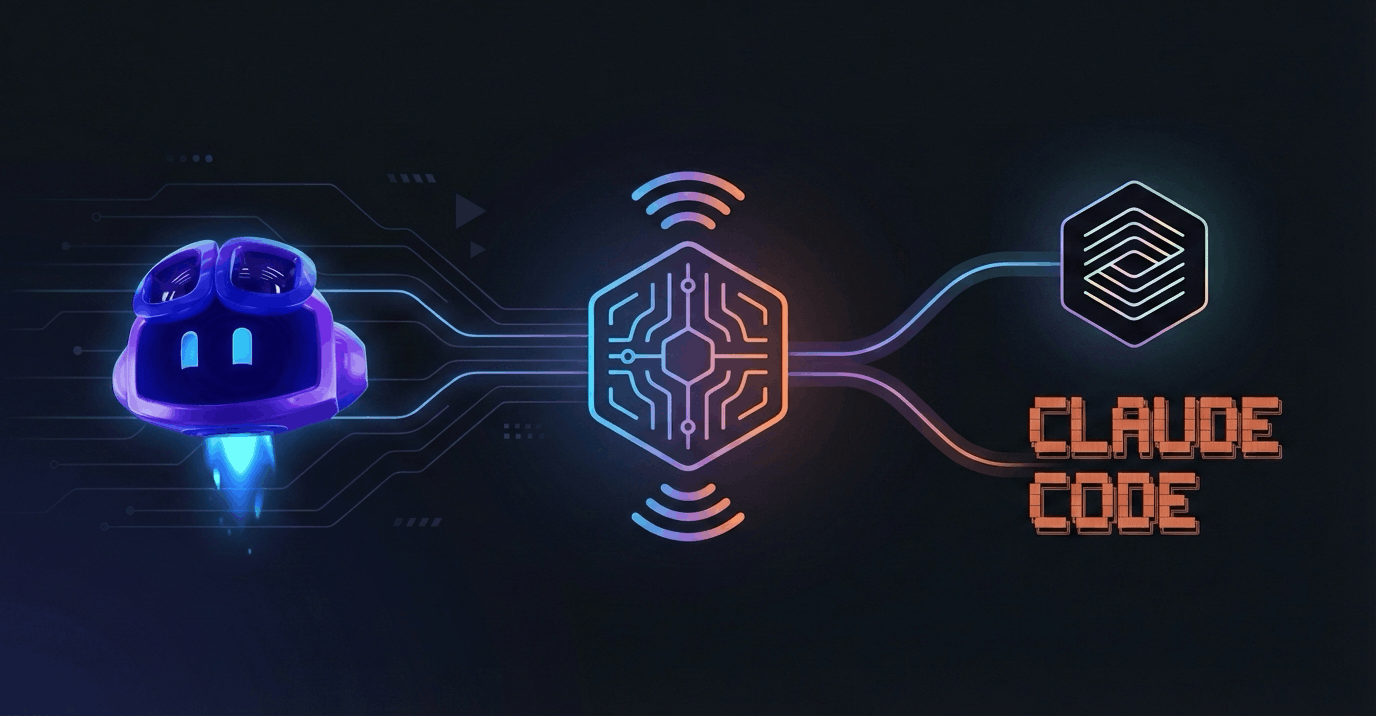
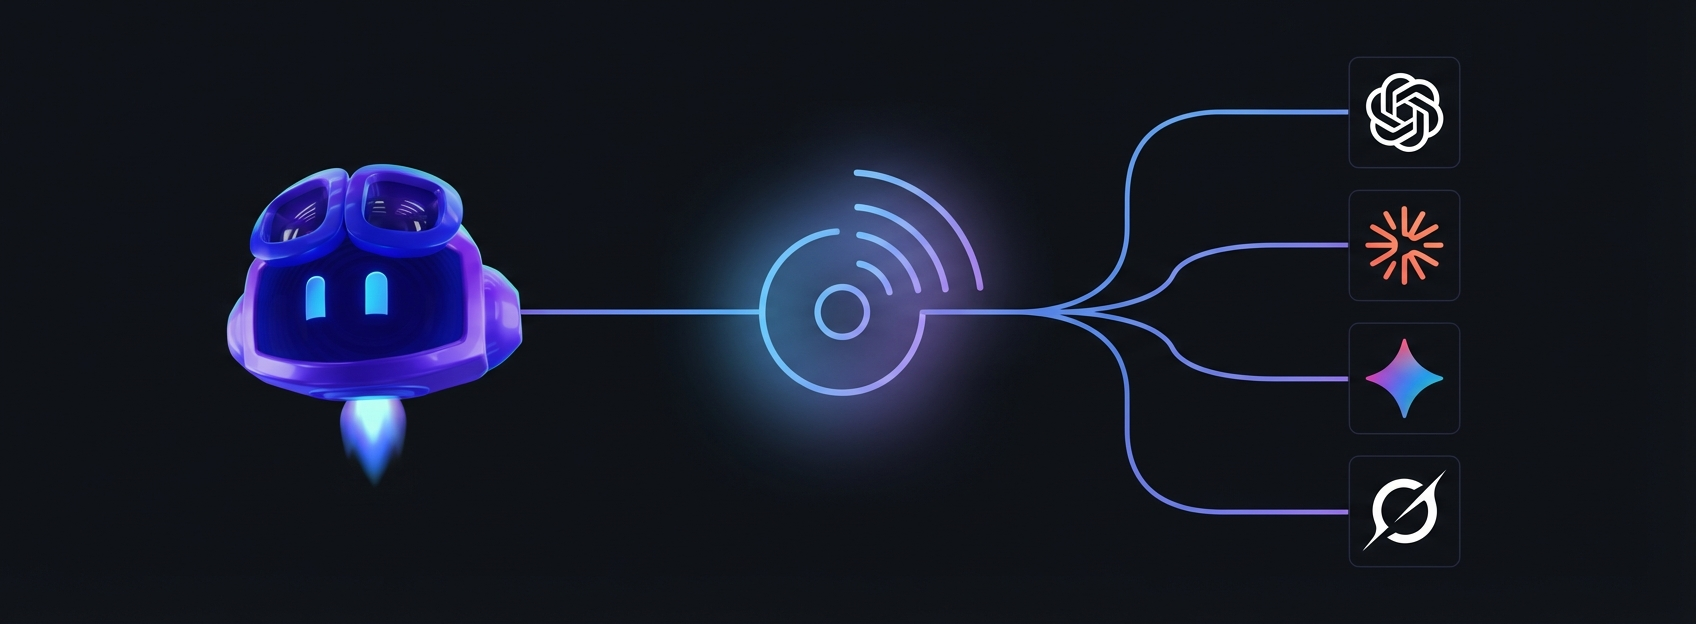
docs: clarify scope and improve documentation

Changed region(s): [[0.0, 0.0913, 0.9375, 1.0], [0.3125, 0.274, 0.3438, 0.3045], [0.2812, 0.2436, 0.3125, 0.274]]

diff --git a/README.md b/README.md
@@ -14,10 +14,33 @@
 </p>
 
 <p align="center">
-  Run <strong>Claude Code</strong> and <strong>OpenAI Codex</strong> with your Copilot subscription.
+  OpenAI & Anthropic compatible chat proxy for GitHub Copilot models.
 </p>
 
-One command. No extra API keys. Just your existing GitHub Copilot plan.
+Use your existing GitHub Copilot subscription with standard OpenAI and Anthropic client libraries.
+
+> [!WARNING]
+> **This is a chat completion proxy, not a full API replacement.**
+>
+> - **Tool/function calling is NOT passed through** - client tool definitions are ignored
+> - **Copilot has its own tools** - file operations happen on the **router's machine/directory**, not the client's
+> - **Claude Code/Codex tools don't work** - their file/shell tools never get invoked; Copilot's tools run instead
+> - **Best for:** Chat applications, simple completions, Q&A bots, prototyping
+> - **Not for:** Agentic coding assistants expecting client-side tool execution
+
+## What This Does
+
+This router translates OpenAI and Anthropic API formats to GitHub Copilot SDK calls, allowing you to:
+
+- Use `openai` and `anthropic` Python/JS libraries with Copilot models
+- Access Claude, GPT, and Gemini models through your Copilot subscription
+- Build chat applications without managing multiple API keys
+
+## What This Does NOT Do
+
+- Pass through tool/function calls to clients (Copilot executes tools server-side instead)
+- Let Claude Code/Codex control file operations (Copilot's tools run in the router's directory)
+- Replace direct API access for agentic tools that need client-side tool execution
 
 ## Quick Start
 
@@ -47,168 +70,18 @@ One command. No extra API keys. Just your existing GitHub Copilot plan.
 
     ```bash
     npm install -g github-copilot-router
+    gcr     # Start the router server
 
+    # Experimental
     gcr cc  # Launch Claude Code
     gcr cx  # Launch OpenAI Codex
-    gcr     # Start the router server only
     ```
 
     The server will start at `http://localhost:7318`.
 
 > **Tip:** You can also authenticate via `GITHUB_TOKEN` environment variable with a [PAT](https://github.com/settings/personal-access-tokens/new) that has "Copilot Requests" permission.
 
-## Claude Code Integration
-
-[Claude Code](https://github.com/anthropics/claude-code) can be configured to use this router as its backend, allowing you to use GitHub Copilot models through Claude Code's interface.
-
-### Quick Launch (Recommended)
-
-The easiest way to use Claude Code with the router - no configuration needed:
-
-```bash
-gcr cc
-# or: gcr claude-code
-```
-
-This starts the router, launches Claude Code with the correct environment variables, and cleans up when you exit. All arguments are passed through:
-
-```bash
-gcr cc --resume
-gcr cc --dangerously-skip-permissions
-```
-
-### Manual Setup
-
-If you prefer to run the router separately:
-
-1. **Start the router** (keep it running in a terminal):
-   ```bash
-   gcr
-   ```
-
-2. **Configure Claude Code** by creating/editing `.claude/settings.json` in your project:
-
-   ```json
-   {
-    "env": {
-      "ANTHROPIC_BASE_URL": "http://localhost:7318",
-      "ANTHROPIC_AUTH_TOKEN": "not-required",
-      "ANTHROPIC_API_KEY": "",
-      "ANTHROPIC_DEFAULT_HAIKU_MODEL": "github-copilot/claude-haiku-4.5",
-      "ANTHROPIC_DEFAULT_SONNET_MODEL": "github-copilot/claude-sonnet-4.5",
-      "ANTHROPIC_DEFAULT_OPUS_MODEL": "github-copilot/claude-opus-4.5"
-    }
-   }
-   ```
-
-3. **Restart Claude Code** to pick up the new configuration.
-
-### Notes
-
-- `ANTHROPIC_AUTH_TOKEN` can be any non-empty string (authentication is handled by GitHub Copilot)
-- `ANTHROPIC_API_KEY` should be empty or omitted
-- Model names in the config should match models available in GitHub Copilot
-
-## OpenAI Codex Integration
-
-[OpenAI Codex CLI](https://github.com/openai/codex) can be configured to use this router as a custom model provider.
-
-### Quick Launch (Recommended)
-
-The easiest way to use Codex with the router - no configuration needed:
-
-```bash
-gcr cx
-# or: gcr codex
-```
-
-This starts the router, launches Codex with the correct provider configuration, and cleans up when you exit. All arguments are passed through:
-
-```bash
-gcr cx --model gpt-4o
-gcr cx --full-auto "fix the tests"
-```
-
-### Manual Setup
-
-If you prefer to run the router separately:
-
-1. **Start the router** (keep it running in a terminal):
-   ```bash
-   gcr
-   ```
-
-2. **Configure Codex CLI** by creating/editing `~/.codex/config.toml`:
-
-   ```toml
-   model = "gpt-5.2-codex"
-   model_provider = "proxy"
-
-   [model_providers.proxy]
-   name = "OpenAI using GitHub Copilot Router"
-   base_url = "http://localhost:7318/v1"
-   wire_api = "responses"
-   ```
-
-3. **Run Codex** as normal:
-   ```bash
-   codex
-   ```
-   It will now route requests through GitHub Copilot.
-
-### Notes
-
-- Model name should match a model available in GitHub Copilot (e.g., `gpt-5.2-codex`, `gpt-4o`, `claude-sonnet-4.5`)
-- No API key configuration needed - authentication is handled by GitHub Copilot
-
-## API Endpoints
-
-| Endpoint | Method | Format | Description |
-|----------|--------|--------|-------------|
-| `/v1/responses` | POST | OpenAI | Responses API (recommended) |
-| `/v1/responses/input_tokens` | POST | OpenAI | Token counting |
-| `/v1/chat/completions` | POST | OpenAI | Chat completions (legacy) |
-| `/v1/models` | GET | OpenAI | List available models |
-| `/v1/messages` | POST | Anthropic | Messages API |
-| `/v1/messages/count_tokens` | POST | Anthropic | Token counting |
-| `/health` | GET | - | Health check |
-
-> **Note:** The `/v1/responses` endpoint is the newer OpenAI Responses API format, which is recommended over `/v1/chat/completions`. Some clients like OpenAI Codex CLI use `wire_api = "responses"` configuration.
-
 ## Usage Examples
-
-### With curl (OpenAI format)
-
-```bash
-# Non-streaming
-curl http://localhost:7318/v1/chat/completions \
-  -H "Content-Type: application/json" \
-  -d '{
-    "model": "gpt-4o",
-    "messages": [{"role": "user", "content": "Hello!"}]
-  }'
-
-# Streaming
-curl http://localhost:7318/v1/chat/completions \
-  -H "Content-Type: application/json" \
-  -d '{
-    "model": "gpt-4o",
-    "messages": [{"role": "user", "content": "Hello!"}],
-    "stream": true
-  }'
-```
-
-### With curl (Anthropic format)
-
-```bash
-curl http://localhost:7318/v1/messages \
-  -H "Content-Type: application/json" \
-  -d '{
-    "model": "claude-sonnet-4.5",
-    "max_tokens": 1024,
-    "messages": [{"role": "user", "content": "Hello!"}]
-  }'
-```
 
 ### With OpenAI Python SDK
 
@@ -245,6 +118,94 @@ response = client.messages.create(
 print(response.content[0].text)
 ```
 
+### With curl (OpenAI format)
+
+```bash
+# Non-streaming
+curl http://localhost:7318/v1/chat/completions \
+  -H "Content-Type: application/json" \
+  -d '{
+    "model": "gpt-4o",
+    "messages": [{"role": "user", "content": "Hello!"}]
+  }'
+
+# Streaming
+curl http://localhost:7318/v1/chat/completions \
+  -H "Content-Type: application/json" \
+  -d '{
+    "model": "gpt-4o",
+    "messages": [{"role": "user", "content": "Hello!"}],
+    "stream": true
+  }'
+```
+
+### With curl (Anthropic format)
+
+```bash
+curl http://localhost:7318/v1/messages \
+  -H "Content-Type: application/json" \
+  -d '{
+    "model": "claude-sonnet-4.5",
+    "max_tokens": 1024,
+    "messages": [{"role": "user", "content": "Hello!"}]
+  }'
+```
+
+## API Endpoints
+
+| Endpoint | Method | Format | Description |
+|----------|--------|--------|-------------|
+| `/v1/responses` | POST | OpenAI | Responses API (recommended) |
+| `/v1/responses/input_tokens` | POST | OpenAI | Token counting |
+| `/v1/chat/completions` | POST | OpenAI | Chat completions (legacy) |
+| `/v1/models` | GET | OpenAI | List available models |
+| `/v1/messages` | POST | Anthropic | Messages API |
+| `/v1/messages/count_tokens` | POST | Anthropic | Token counting |
+| `/health` | GET | - | Health check |
+
+## Use Cases
+
+**Works well for:**
+- Custom chatbots and Q&A systems
+- LangChain / LlamaIndex applications (chat mode only)
+- Chat UIs (Open WebUI, LibreChat, etc.)
+- Prototyping with multiple models
+- Any application using standard chat completion APIs
+
+**Does NOT work as expected for:**
+- Claude Code (its tools don't work; Copilot's tools run on the router's machine instead)
+- OpenAI Codex CLI (its tools don't work; Copilot's tools run on the router's machine instead)
+- Any agentic tool expecting client-side tool execution
+
+## Experimental: Claude Code & Codex Launchers
+
+> [!CAUTION]
+> **These launchers are experimental and have significant limitations.**
+>
+> Claude Code and Codex CLI expect to control file operations through their own tools. With this router:
+>
+> - **Their tools don't work** - tool calls are not passed back to the client
+> - **Copilot's tools run instead** - but they operate on the **router's directory**, not your project
+> - **Wrong directory problem** - if you ask to "edit src/index.ts", Copilot edits that file where the router is running, not where Claude Code/Codex is running
+>
+> **Workaround:** Run the router FROM your project directory: `cd /your/project && gcr cc`
+>
+> **For full functionality, use these tools with their official APIs.**
+
+### Claude Code Launcher
+
+```bash
+gcr cc
+# or: gcr claude-code
+```
+
+### Codex Launcher
+
+```bash
+gcr cx
+# or: gcr codex
+```
+
 ## Configuration
 
 ### CLI Commands
@@ -252,9 +213,9 @@ print(response.content[0].text)
 | Command | Description |
 |---------|-------------|
 | `gcr` | Start the router server |
-| `gcr claude-code` | Launch Claude Code through the router |
+| `gcr claude-code` | Launch Claude Code (limited - see warning above) |
 | `gcr cc` | Alias for `claude-code` |
-| `gcr codex` | Launch OpenAI Codex through the router |
+| `gcr codex` | Launch OpenAI Codex (limited - see warning above) |
 | `gcr cx` | Alias for `codex` |
 
 > **Note:** `copilot-router` is an alias for `gcr` (e.g., `copilot-router cc` works too).
@@ -271,6 +232,17 @@ print(response.content[0].text)
 |----------|---------|-------------|
 | `PORT` | `7318` | Server port |
 | `GITHUB_TOKEN` | - | GitHub PAT for authentication |
+
+## Limitations
+
+| Feature | Status |
+|---------|--------|
+| Chat completions | ✅ Supported |
+| Streaming | ✅ Supported |
+| Multi-turn conversations | ✅ Supported |
+| Tool/function calling | ❌ Not supported |
+| Vision/images | ❌ Not supported |
+| File attachments | ❌ Not supported |
 
 ## Troubleshooting
 
